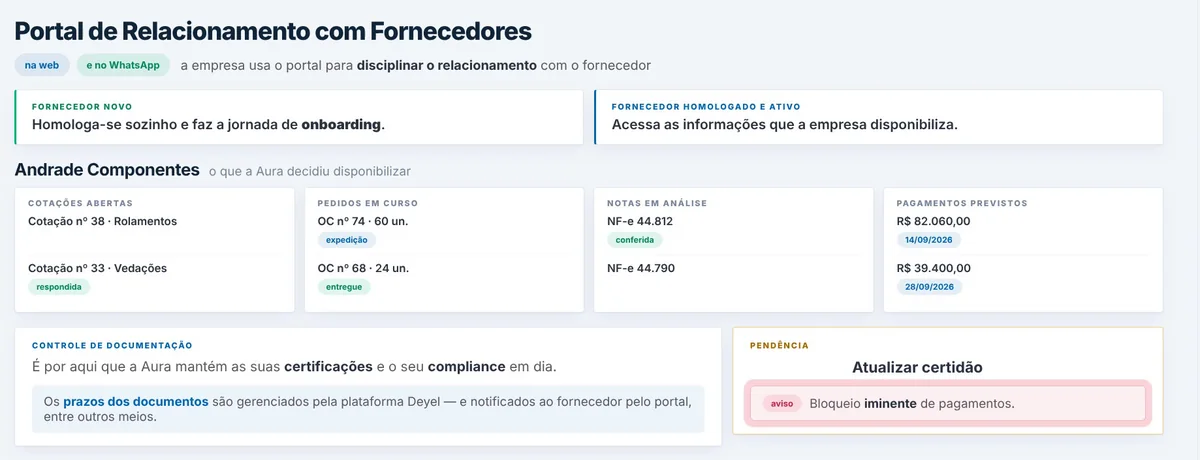
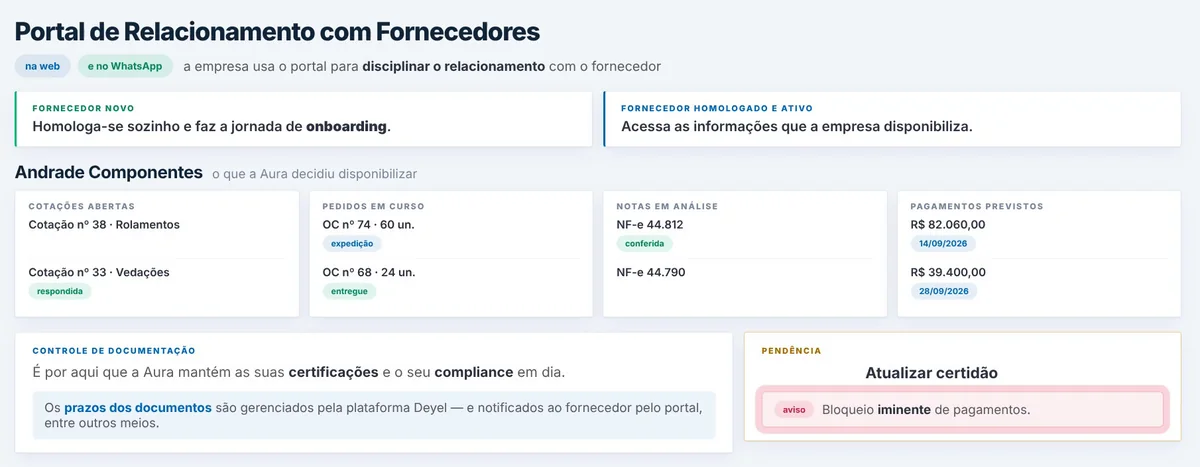
Teste da landing de Vendor: recorte das telas da galeria
Claude-Session: https://claude.ai/code/session_01A4kCGRf3NkE5kpLpxC8GaW

diff --git a/teste/gestao-de-compras-e-fornecedores/index.html b/teste/gestao-de-compras-e-fornecedores/index.html
@@ -585,23 +585,23 @@ body{overflow-x:clip}
         <div class="vg-t"><span class="vg-n">Solicitação</span><h3>O pedido nasce no sistema, até pelo celular</h3><p>O solicitante escolhe o item no catálogo, o orçamento da área é conferido na hora e a aprovação segue a alçada que a sua empresa definiu.</p></div>
       </div>
       <div class="vg-c">
-        <div class="vg-i"><img src="/media/vendor-telas/mapa.webp" alt="Mapa de compras com três propostas, prazo, entrega no prazo, histórico e nota ponderada de cada fornecedor" width="1200" height="490" loading="lazy" decoding="async"></div>
+        <div class="vg-i"><img src="/media/vendor-telas/mapa.webp" alt="Mapa de compras com três propostas, prazo, entrega no prazo, histórico e nota ponderada de cada fornecedor" width="1200" height="499" loading="lazy" decoding="async"></div>
         <div class="vg-t"><span class="vg-n">Cotação</span><h3>Mapa de compras pronto para decidir</h3><p>As propostas entram pelo portal e o mapa compara preço, prazo e histórico de entrega, com os pesos que a sua empresa escolheu.</p></div>
       </div>
       <div class="vg-c">
-        <div class="vg-i"><img src="/media/vendor-telas/nota.webp" alt="Tela de conferência automática entre ordem de compra, recebimento e nota fiscal, com a ordem de pagamento enviada ao ERP" width="1200" height="467" loading="lazy" decoding="async"></div>
+        <div class="vg-i"><img src="/media/vendor-telas/nota.webp" alt="Tela de conferência automática entre ordem de compra, recebimento e nota fiscal, com a ordem de pagamento enviada ao ERP" width="1200" height="475" loading="lazy" decoding="async"></div>
         <div class="vg-t"><span class="vg-n">Pedido e pagamento</span><h3>Pedido, recebimento e nota conferidos antes de pagar</h3><p>O pedido nasce da cotação, sem redigitar. Na chegada, o sistema confere pedido, recebimento e nota fiscal e só então libera o pagamento.</p></div>
       </div>
       <div class="vg-c">
-        <div class="vg-i"><img src="/media/vendor-telas/homologacao.webp" alt="Documento de homologação de fornecedor com a aprovação de financeiro, jurídico e compliance e o resultado da avaliação" width="1200" height="486" loading="lazy" decoding="async"></div>
+        <div class="vg-i"><img src="/media/vendor-telas/homologacao.webp" alt="Documento de homologação de fornecedor com a aprovação de financeiro, jurídico e compliance e o resultado da avaliação" width="1200" height="495" loading="lazy" decoding="async"></div>
         <div class="vg-t"><span class="vg-n">Fornecedores</span><h3>Homologação num documento só</h3><p>As consultas cadastrais, financeiras e de conformidade viram um único documento, que cada área aprova na sua parte.</p></div>
       </div>
       <div class="vg-c">
-        <div class="vg-i"><img src="/media/vendor-telas/portal.webp" alt="Portal de relacionamento com fornecedores, com cotações abertas, pedidos em curso, notas em análise e pagamentos previstos" width="1200" height="460" loading="lazy" decoding="async"></div>
+        <div class="vg-i"><img src="/media/vendor-telas/portal.webp" alt="Portal de relacionamento com fornecedores, com cotações abertas, pedidos em curso, notas em análise e pagamentos previstos" width="1200" height="467" loading="lazy" decoding="async"></div>
         <div class="vg-t"><span class="vg-n">Portal do fornecedor</span><h3>O fornecedor se atende sozinho</h3><p>Ele acompanha cotações, pedidos, notas e pagamentos, e mantém as certidões em dia, com aviso antes do vencimento.</p></div>
       </div>
       <div class="vg-c">
-        <div class="vg-i"><img src="/media/vendor-telas/contratos.webp" alt="Tela de contrato com valor consumido, pedidos validados contra o saldo e alerta de renovação" width="1200" height="582" loading="lazy" decoding="async"></div>
+        <div class="vg-i"><img src="/media/vendor-telas/contratos.webp" alt="Tela de contrato com valor consumido, pedidos validados contra o saldo e alerta de renovação" width="1200" height="592" loading="lazy" decoding="async"></div>
         <div class="vg-t"><span class="vg-n">Contratos</span><h3>Contratos com saldo e vencimento à vista</h3><p>Gerados por modelo e assinados dentro do fluxo. Cada pedido é validado contra o saldo do contrato, e a renovação gera alerta.</p></div>
       </div>
     </div>
